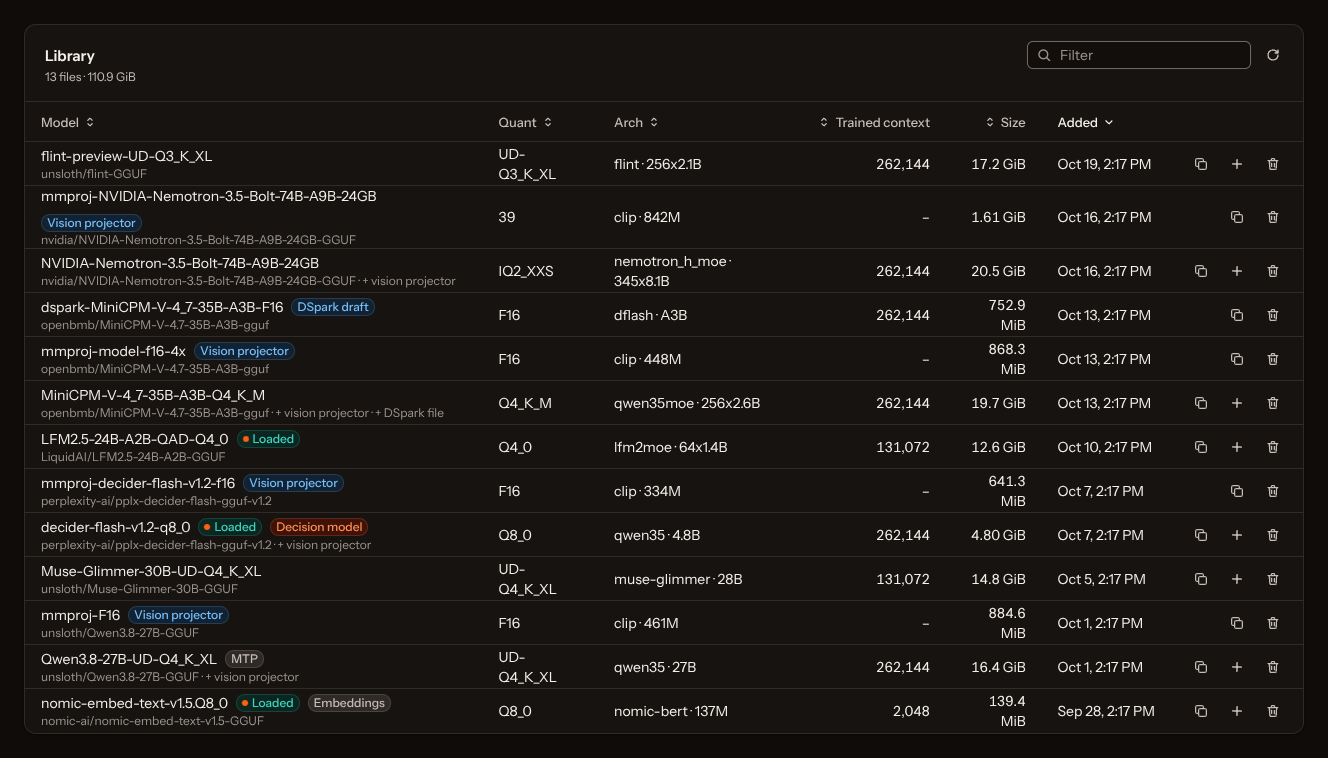
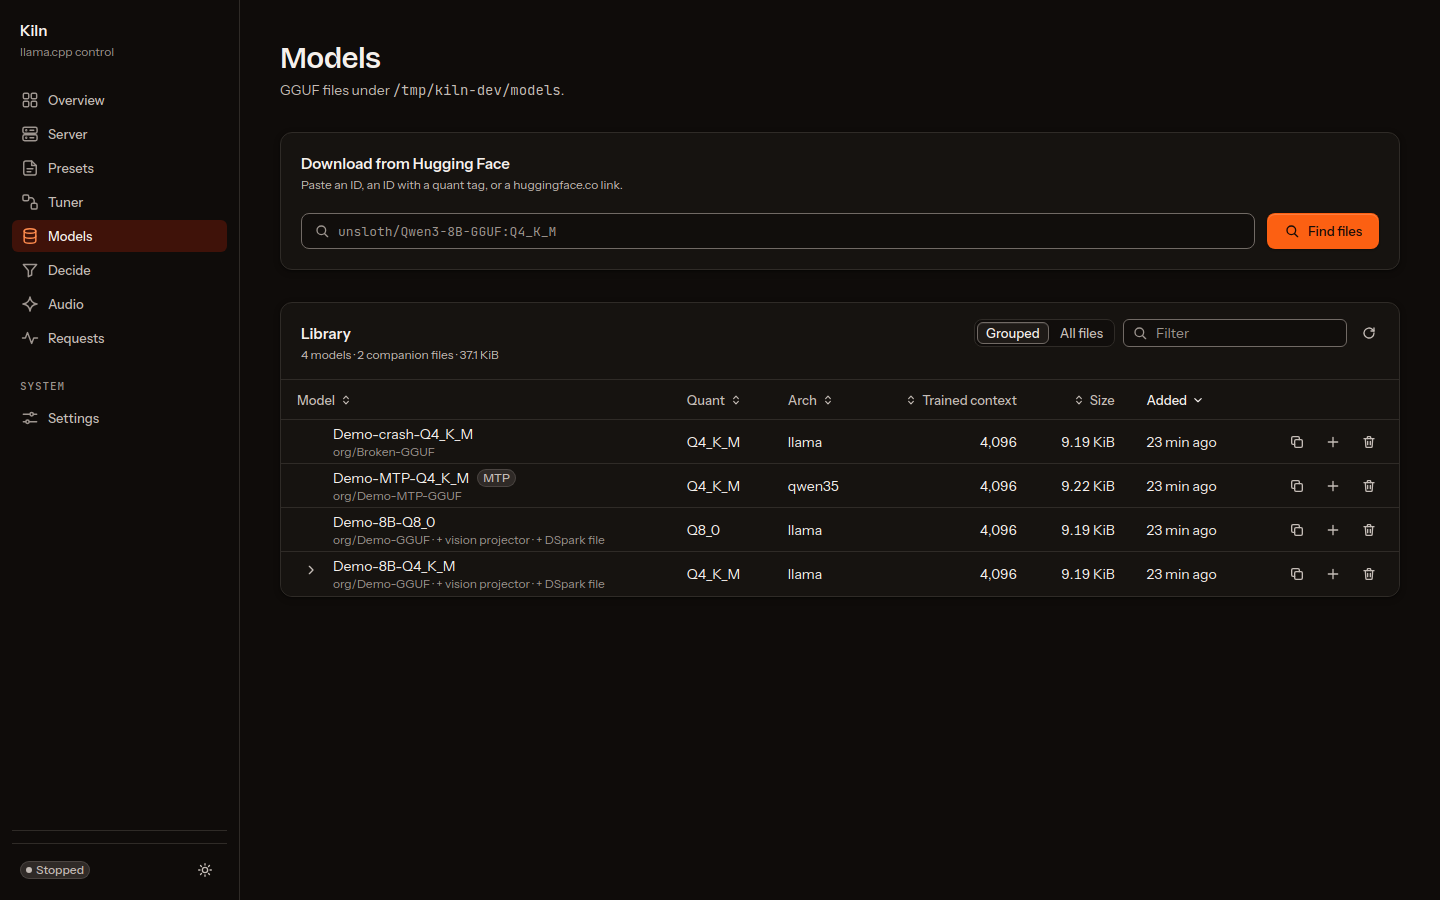
Docs: the nested model library

diff --git a/docs/GUIDE.md b/docs/GUIDE.md
@@ -230,10 +230,18 @@ For gated or private repositories, add a Hugging Face token in [Settings](#setti
 connection drops. Each row shows progress, speed and time left, with **Cancel**, **Retry** and **Remove from list**.
 Kiln refuses a download that won't fit on the disk, and says how much it needs.
 
-**Library.** Every GGUF file with its quantization, architecture and size class, trained context, size and the
-date it was added.
+**Library.** Models are listed with their companion files — vision projectors and draft files (DSpark, DFlash,
+EAGLE-3) — folded under them, so you can see at a glance which models you have. The chevron before a model's
+name expands and collapses its companions; the line under the name still says `+ vision projector · + DSpark
+file`. Each row shows quantization, architecture and size class, trained context, size and the date it was added.
 
 ![Library](screenshots/models-library.png)
+![Library, expanded](screenshots/models-library-grouped.png)
+
+Sorting sorts the models; a model's companions stay under it. The filter matches name, repository and
+architecture — a model whose companions match but not itself shows opened, with just the matching companions,
+so typing `mmproj` lists every model that has a projector. The **Grouped / All files** control in the card
+header switches back to the flat list of every file, and the choice is remembered in this browser.
 
 Badges show what each file is: **Loaded** (a running model is using it), **Vision projector**, a **draft** file for
 speculative decoding, **Decision model**, **Embeddings**, **Reranker**, **MTP**, or **Missing parts** when a split

diff --git a/docs/API.md b/docs/API.md
@@ -508,7 +508,7 @@ with `enabled: false` stays in the preset but isn't passed to llama-server. Flag
 
 | Method | Path | Body / query | Returns |
 |---|---|---|---|
-| GET | `/api/models` | | `{models, roots, download_dir}`. Each model: path, name, repo, size, quant, arch, context length, `is_projector`, `is_draft`, `role_hint`, `decision`, and for a main model its `projectors` and `drafts` (DSpark, DFlash, EAGLE-3 files), … |
+| GET | `/api/models` | | `{models, roots, download_dir}`. Each model: path, name, repo, size, quant, arch, context length, `is_projector`, `is_draft`, `role_hint`, `decision`, `companion_of` (for a projector or draft file, the path of the model it belongs to, or `null`), and for a main model its `projectors` and `drafts` (DSpark, DFlash, EAGLE-3 files), … |
 | DELETE | `/api/models` | `?path=` | `{removed: [paths]}`. `409` if that model is loaded. |
 | GET | `/api/hf/resolve` | `?id=org/repo[:QUANT]` or a huggingface.co URL (a link may also carry `:QUANT` after the repo name) | `{repo, revision, gated, has_token, selected, variants, …}`: the downloadable quants |
 | GET | `/api/downloads` | | The last 50 download rows, newest first |
